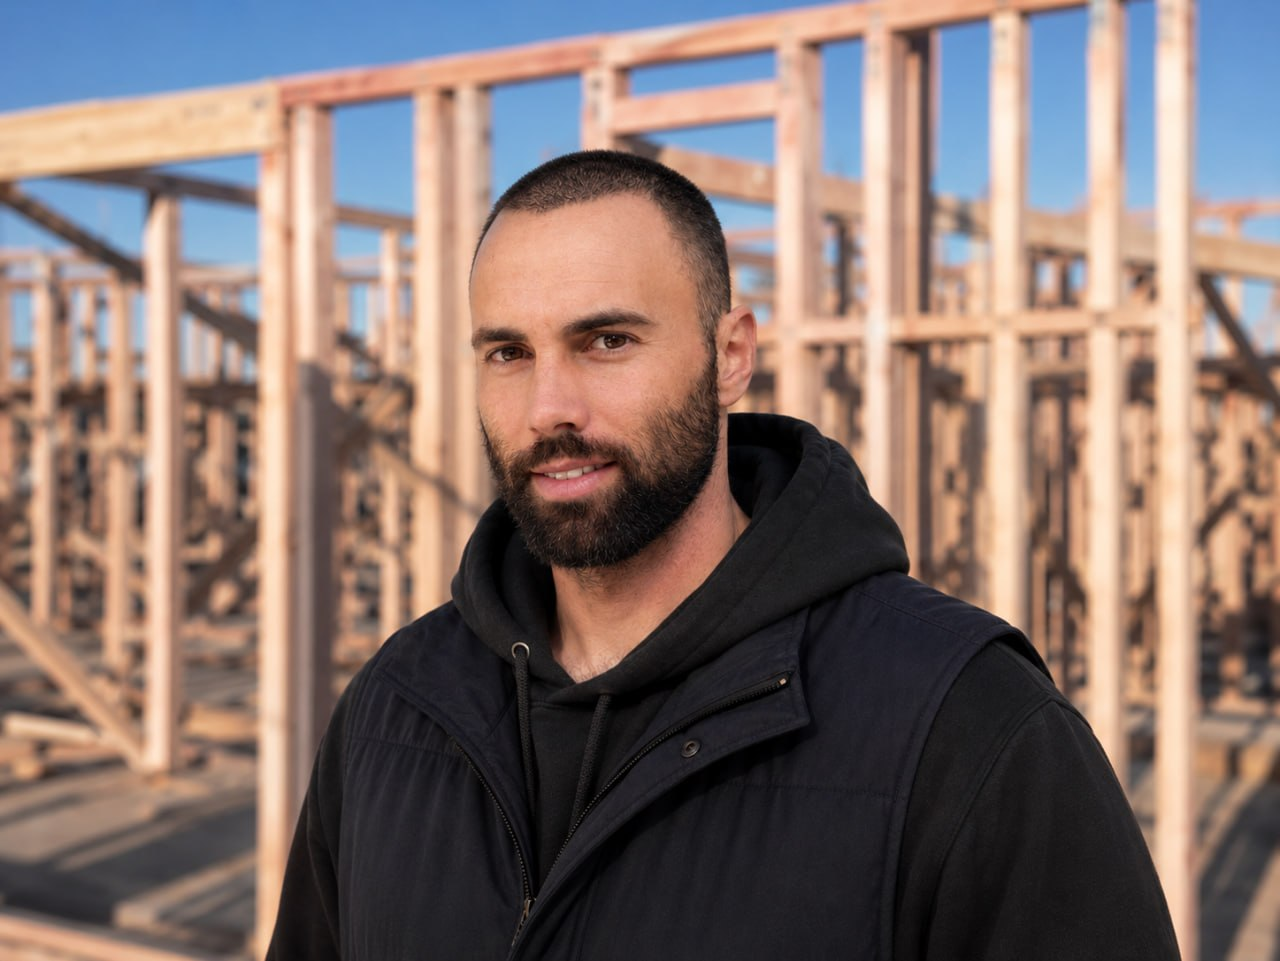
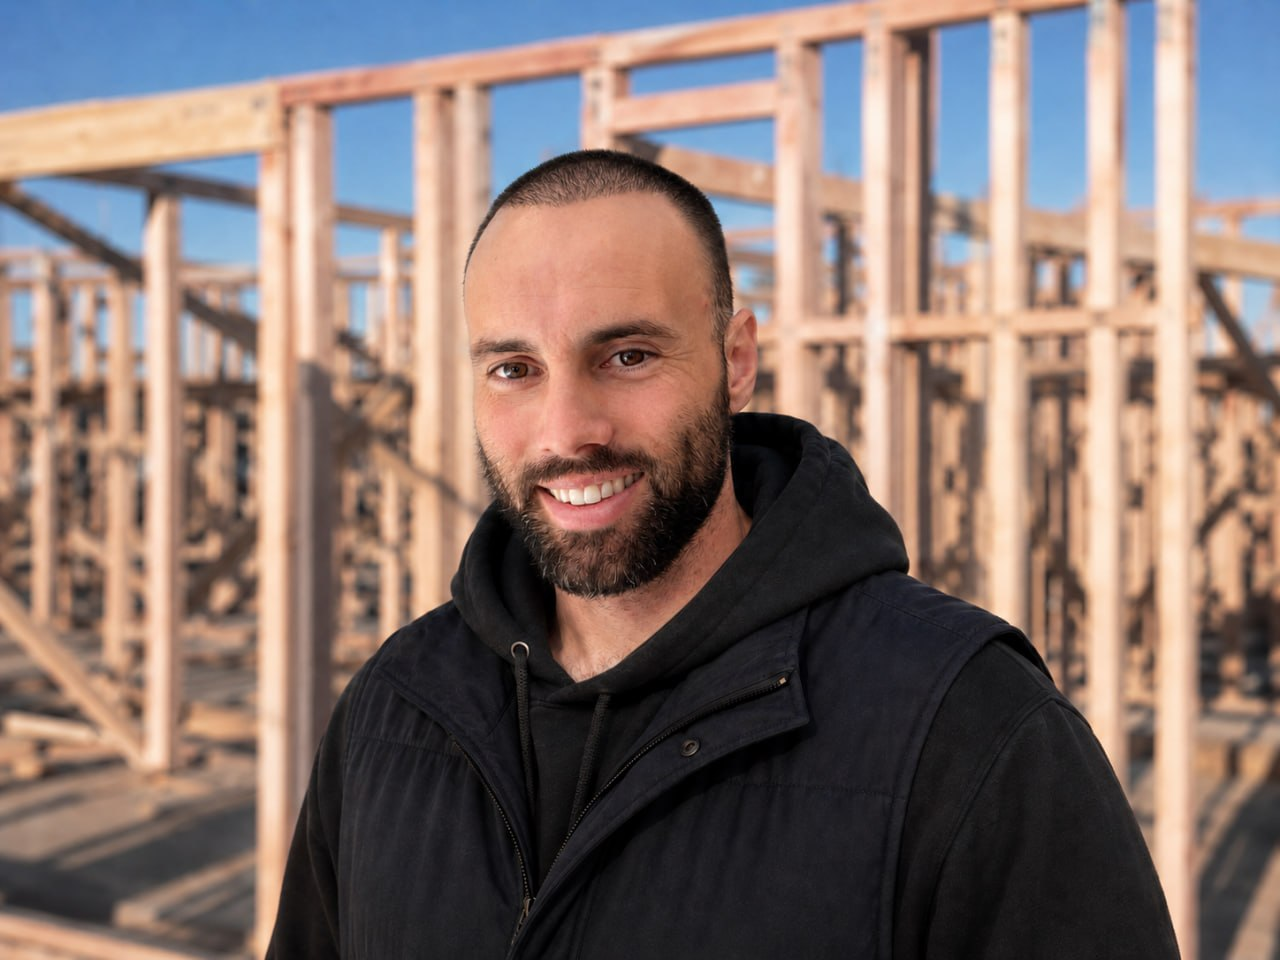
Update supplier section copy + sync Shaun images from .com
- Updated supplier description per Shaun's request
- Copied updated shaun-smiling.jpg and shaun.jpg from .com site

Changed region(s): [[0.3438, 0.1562, 0.5938, 0.6562]]

diff --git a/app/(home)/page.tsx b/app/(home)/page.tsx
@@ -749,7 +749,7 @@ export default function HomePage() {
                     Building the largest roofing supplier network in the world.
                   </h2>
                   <p className="mt-5 text-base leading-7 text-zinc-300 sm:text-lg sm:leading-8">
-                    We&apos;re partnering with high-quality roofing suppliers to connect them with contractors who quote, order, and buy materials every day. If you supply roofing materials, we want to work with you.
+                    We&apos;re partnering with high-quality roofing suppliers to connect them with people who quote, order, and buy materials every day. If you supply quality roofing materials to your area, and you want to grow, we want to work with you.
                   </p>
                 </div>
                 <a
